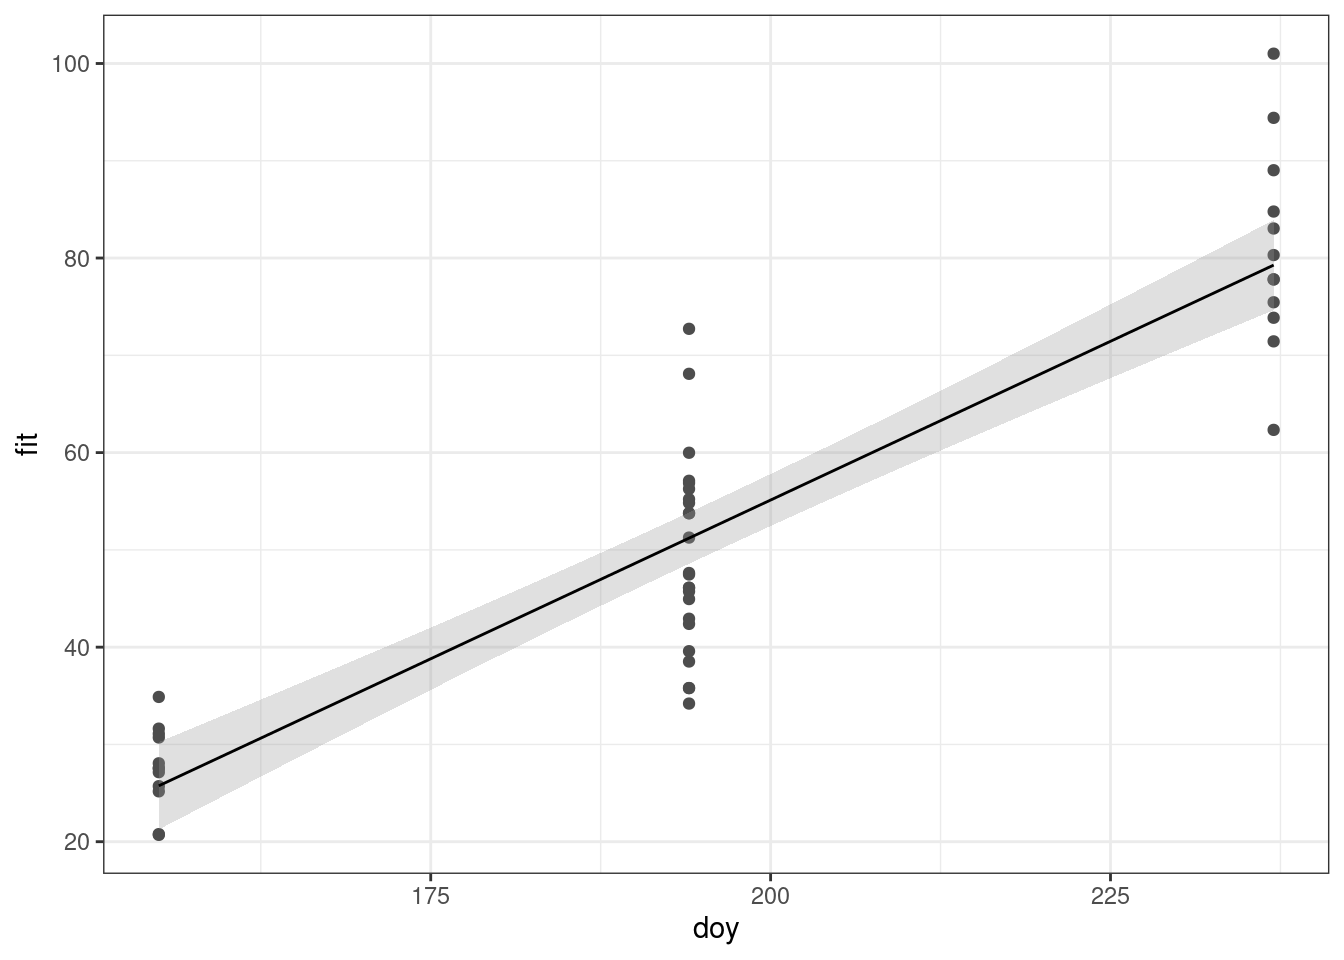
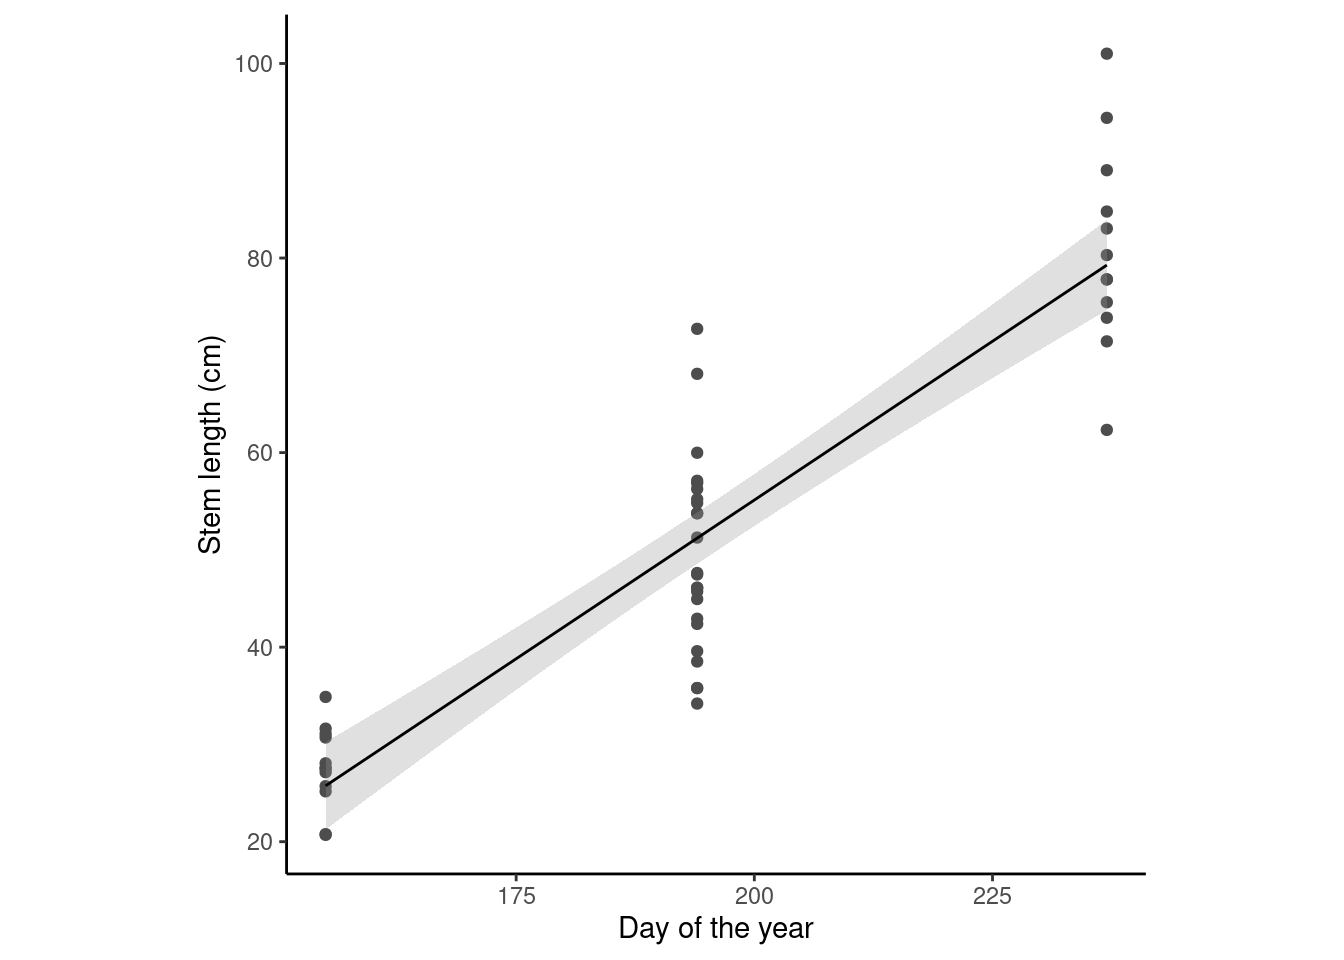
day 7

diff --git a/classes/day07_09042024.html b/classes/day07_09042024.html
@@ -137,11 +137,11 @@ pre > code.sourceCode > span > a:first-child::before { text-decoration: underlin
 doy           0.5618765   0.7436752</code></pre>
 </div>
 </div>
-<p>The 95% confidence interval for <span class="math inline">\(\beta_1\)</span>, (0.56, 0.74), means that we can say that <strong>the slope</strong> of length vs.&nbsp;doy (i.e., the growth rate) is between those values with 95% confidence.</p>
-<p>What’s with the confidence intervals for <span class="math inline">\(E(y)\)</span> (i.e., stem length) for a given day of the year? What is the confidence interval of <span class="math inline">\(E(\mathbf{y}|\mathbf{x})\)</span>?<br>
+<p>The 95% confidence interval for <span class="math inline">\(\beta_1\)</span>, (0.56, 0.74), means that we can say that <strong>the slope</strong> of length vs.&nbsp;doy (i.e., the elongation rate) is between those values with 95% confidence.</p>
+<p>What’s with the confidence intervals for <span class="math inline">\(E(y_{new})\)</span> (i.e., stem length) for a given day of the year? That is, what is the confidence interval of <span class="math inline">\(E(y_{new}|\mathbf{x})\)</span>?<br>
 We are looking at<br>
-<span class="math display">\[\hat{\beta_0}+\hat{\beta_1}x \pm t_{dfe, 1-\alpha/2}s.e. (\hat{\beta_0}+\hat{\beta_1}x),\]</span> where <span class="math inline">\(s.e.(\hat{\beta_0}+\hat{\beta_1}x) = \hat{\sigma}\sqrt{\frac{1}{n}+ \frac{(x-\hat\mu_x)^2}{(n-1)s_x^2}}\)</span>.</p>
-<p><strong>Note</strong>: Remember that <span class="math inline">\(E(y)\)</span> is the mean of all potentially observable values of <span class="math inline">\(y\)</span>. That is why this interval is somewhat smaller than the prediction interval.</p>
+<span class="math display">\[\hat{\beta_0}+\hat{\beta_1}x_{new} \pm t_{dfe, 1-\alpha/2}s.e. (\hat{\beta_0}+\hat{\beta_1}x_{new}),\]</span> where <span class="math inline">\(s.e.(\hat{\beta_0}+\hat{\beta_1}x_{new}) = \hat{\sigma}\sqrt{\frac{1}{n}+ \frac{(x-\hat\mu_x)^2}{(n-1)s_x^2}}\)</span>.</p>
+<p><strong>Note</strong>: Remember that <span class="math inline">\(E(y)\)</span> is the <strong>mean</strong> of all potentially observable values of <span class="math inline">\(y\)</span>. That is why this interval is somewhat smaller than the prediction interval.</p>
 <div class="cell">
 <div class="sourceCode cell-code" id="cb3"><pre class="sourceCode r code-with-copy"><code class="sourceCode r"><span id="cb3-1"><a href="#cb3-1" aria-hidden="true" tabindex="-1"></a>doy <span class="ot">&lt;-</span> <span class="fu">seq</span>(<span class="fu">min</span>(data<span class="sc">$</span>doy), <span class="fu">max</span>(data<span class="sc">$</span>doy), <span class="at">by =</span> <span class="dv">1</span>)</span>
 <span id="cb3-2"><a href="#cb3-2" aria-hidden="true" tabindex="-1"></a>estim <span class="ot">&lt;-</span> <span class="fu">predict</span>(m, <span class="fu">data.frame</span>(doy), <span class="at">interval=</span><span class="st">"confidence"</span>)</span>
@@ -153,7 +153,10 @@ We are looking at<br>
 <span id="cb3-8"><a href="#cb3-8" aria-hidden="true" tabindex="-1"></a>  <span class="fu">geom_point</span>(<span class="fu">aes</span>(<span class="at">x =</span> doy, <span class="at">y =</span> stm.length_cm), <span class="at">data =</span> data, <span class="at">color =</span> <span class="st">'grey30'</span>)<span class="sc">+</span></span>
 <span id="cb3-9"><a href="#cb3-9" aria-hidden="true" tabindex="-1"></a>  <span class="fu">geom_ribbon</span>(<span class="fu">aes</span>(<span class="at">ymin =</span> lwr, <span class="at">ymax =</span> upr), <span class="at">fill =</span> <span class="st">'grey60'</span>, <span class="at">alpha =</span> .<span class="dv">3</span>)<span class="sc">+</span></span>
 <span id="cb3-10"><a href="#cb3-10" aria-hidden="true" tabindex="-1"></a>  <span class="fu">geom_line</span>()<span class="sc">+</span></span>
-<span id="cb3-11"><a href="#cb3-11" aria-hidden="true" tabindex="-1"></a>  <span class="fu">theme_bw</span>()</span></code><button title="Copy to Clipboard" class="code-copy-button"><i class="bi"></i></button></pre></div>
+<span id="cb3-11"><a href="#cb3-11" aria-hidden="true" tabindex="-1"></a>  <span class="fu">labs</span>(<span class="at">x =</span> <span class="st">"Day of the year"</span>, </span>
+<span id="cb3-12"><a href="#cb3-12" aria-hidden="true" tabindex="-1"></a>       <span class="at">y =</span> <span class="st">"Stem length (cm)"</span>)<span class="sc">+</span></span>
+<span id="cb3-13"><a href="#cb3-13" aria-hidden="true" tabindex="-1"></a>  <span class="fu">theme_classic</span>()<span class="sc">+</span></span>
+<span id="cb3-14"><a href="#cb3-14" aria-hidden="true" tabindex="-1"></a>  <span class="fu">theme</span>(<span class="at">aspect.ratio =</span> <span class="dv">1</span>)</span></code><button title="Copy to Clipboard" class="code-copy-button"><i class="bi"></i></button></pre></div>
 <div class="cell-output-display">
 <p><img src="day07_09042024_files/figure-html/unnamed-chunk-2-1.png" class="img-fluid" width="672"></p>
 </div>
@@ -177,7 +180,10 @@ Previously, we only had <span class="math inline">\(\text{Var}(\hat\beta)\)</spa
 <span id="cb4-10"><a href="#cb4-10" aria-hidden="true" tabindex="-1"></a>  <span class="fu">geom_ribbon</span>(<span class="fu">aes</span>(<span class="at">ymin =</span> pred_lwr, <span class="at">ymax =</span> pred_upr), <span class="at">fill =</span> <span class="st">'grey85'</span>, <span class="at">alpha =</span> .<span class="dv">3</span>)<span class="sc">+</span></span>
 <span id="cb4-11"><a href="#cb4-11" aria-hidden="true" tabindex="-1"></a>  <span class="fu">geom_ribbon</span>(<span class="fu">aes</span>(<span class="at">ymin =</span> lwr, <span class="at">ymax =</span> upr), <span class="at">fill =</span> <span class="st">'grey60'</span>, <span class="at">alpha =</span> .<span class="dv">3</span>)<span class="sc">+</span></span>
 <span id="cb4-12"><a href="#cb4-12" aria-hidden="true" tabindex="-1"></a>  <span class="fu">geom_line</span>()<span class="sc">+</span></span>
-<span id="cb4-13"><a href="#cb4-13" aria-hidden="true" tabindex="-1"></a>  <span class="fu">theme_bw</span>()</span></code><button title="Copy to Clipboard" class="code-copy-button"><i class="bi"></i></button></pre></div>
+<span id="cb4-13"><a href="#cb4-13" aria-hidden="true" tabindex="-1"></a>  <span class="fu">labs</span>(<span class="at">x =</span> <span class="st">"Day of the year"</span>, </span>
+<span id="cb4-14"><a href="#cb4-14" aria-hidden="true" tabindex="-1"></a>       <span class="at">y =</span> <span class="st">"Stem length (cm)"</span>)<span class="sc">+</span></span>
+<span id="cb4-15"><a href="#cb4-15" aria-hidden="true" tabindex="-1"></a>  <span class="fu">theme_classic</span>()<span class="sc">+</span></span>
+<span id="cb4-16"><a href="#cb4-16" aria-hidden="true" tabindex="-1"></a>  <span class="fu">theme</span>(<span class="at">aspect.ratio =</span> <span class="dv">1</span>)</span></code><button title="Copy to Clipboard" class="code-copy-button"><i class="bi"></i></button></pre></div>
 <div class="cell-output-display">
 <p><img src="day07_09042024_files/figure-html/unnamed-chunk-3-1.png" class="img-fluid" width="672"></p>
 </div>
@@ -188,7 +194,9 @@ Previously, we only had <span class="math inline">\(\text{Var}(\hat\beta)\)</spa
 <section id="uncertainty-as-affected-by-the-amount-of-data" class="level2">
 <h2 class="anchored" data-anchor-id="uncertainty-as-affected-by-the-amount-of-data">Uncertainty as affected by the amount of data</h2>
 <ul>
-<li>Thought experiment: what happens to both uncertainties when <span class="math inline">\(n\)</span> is infinite? (what happens to <span class="math inline">\(\text{Var}(\hat\beta)\)</span> when <span class="math inline">\(n\)</span> is infinite?)</li>
+<li>Thought experiment: what happens to both uncertainties when <span class="math inline">\(n\)</span> is infinite? (what happens to <span class="math inline">\(\text{Var}(\hat\beta)\)</span> when <span class="math inline">\(n\)</span> is infinite?)<br>
+</li>
+<li>Whiteboard: analyze <span class="math inline">\(\text{Var}(\hat\beta) = \frac{\sigma^2}{(n-1)s^2_x}\)</span> when <span class="math inline">\(n\)</span> is infinity.</li>
 </ul>
 <div class="cell">
 <div class="sourceCode cell-code" id="cb5"><pre class="sourceCode r code-with-copy"><code class="sourceCode r"><span id="cb5-1"><a href="#cb5-1" aria-hidden="true" tabindex="-1"></a><span class="fu">set.seed</span>(<span class="dv">20</span>)</span>
@@ -210,7 +218,10 @@ Previously, we only had <span class="math inline">\(\text{Var}(\hat\beta)\)</spa
 <span id="cb5-17"><a href="#cb5-17" aria-hidden="true" tabindex="-1"></a>  <span class="fu">geom_ribbon</span>(<span class="fu">aes</span>(<span class="at">ymin =</span> pred_lwr, <span class="at">ymax =</span> pred_upr), <span class="at">fill =</span> <span class="st">'grey85'</span>, <span class="at">alpha =</span> .<span class="dv">3</span>)<span class="sc">+</span></span>
 <span id="cb5-18"><a href="#cb5-18" aria-hidden="true" tabindex="-1"></a>  <span class="fu">geom_ribbon</span>(<span class="fu">aes</span>(<span class="at">ymin =</span> lwr, <span class="at">ymax =</span> upr), <span class="at">fill =</span> <span class="st">'grey60'</span>, <span class="at">alpha =</span> .<span class="dv">3</span>)<span class="sc">+</span></span>
 <span id="cb5-19"><a href="#cb5-19" aria-hidden="true" tabindex="-1"></a>  <span class="fu">geom_line</span>()<span class="sc">+</span></span>
-<span id="cb5-20"><a href="#cb5-20" aria-hidden="true" tabindex="-1"></a>  <span class="fu">theme_bw</span>()</span></code><button title="Copy to Clipboard" class="code-copy-button"><i class="bi"></i></button></pre></div>
+<span id="cb5-20"><a href="#cb5-20" aria-hidden="true" tabindex="-1"></a>  <span class="fu">labs</span>(<span class="at">x =</span> <span class="st">"Day of the year"</span>, </span>
+<span id="cb5-21"><a href="#cb5-21" aria-hidden="true" tabindex="-1"></a>       <span class="at">y =</span> <span class="st">"Stem length (cm)"</span>)<span class="sc">+</span></span>
+<span id="cb5-22"><a href="#cb5-22" aria-hidden="true" tabindex="-1"></a>  <span class="fu">theme_classic</span>()<span class="sc">+</span></span>
+<span id="cb5-23"><a href="#cb5-23" aria-hidden="true" tabindex="-1"></a>  <span class="fu">theme</span>(<span class="at">aspect.ratio =</span> <span class="dv">1</span>)</span></code><button title="Copy to Clipboard" class="code-copy-button"><i class="bi"></i></button></pre></div>
 <div class="cell-output-display">
 <p><img src="day07_09042024_files/figure-html/unnamed-chunk-4-1.png" class="img-fluid" width="672"></p>
 </div>
